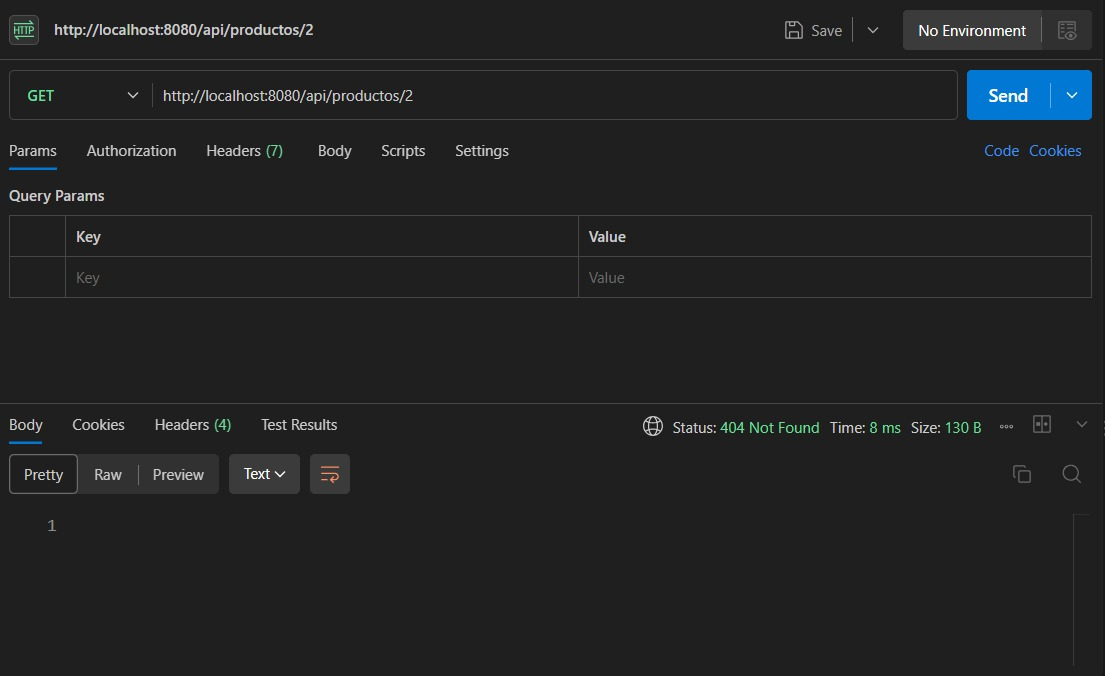
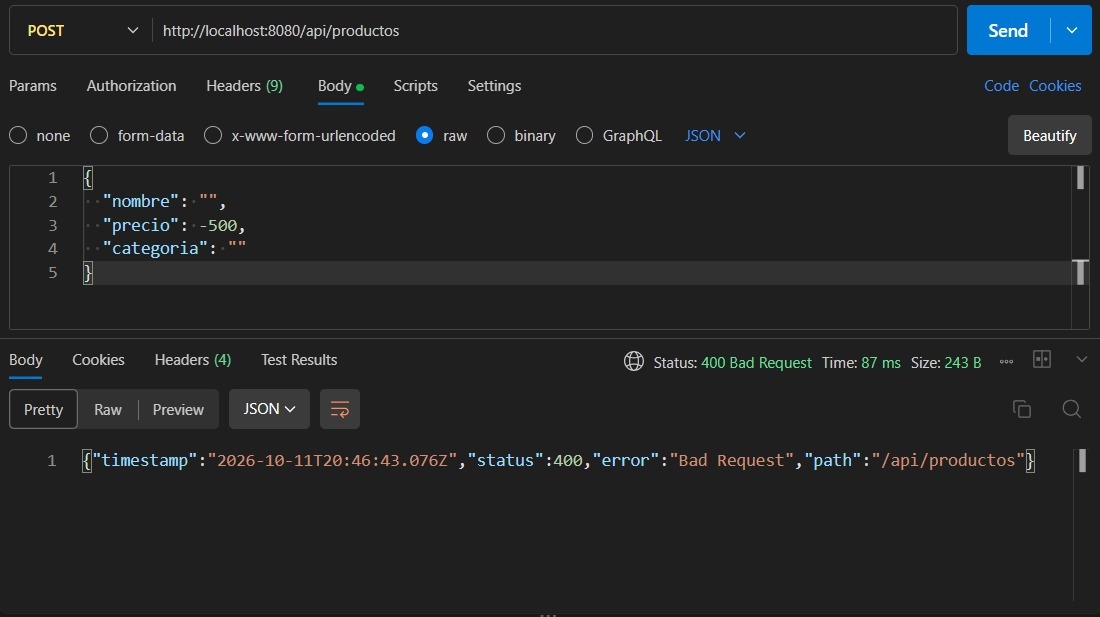
Fixing c2 practical exam errors

diff --git a/10-week/03-practical-exam-c2/producto-api/README.md b/10-week/03-practical-exam-c2/producto-api/README.md
@@ -102,7 +102,7 @@ The `id` attribute is identified as the primary key using:
 @Id
 ```
 
-and its value is automatically generated using:
+Its value is automatically generated using:
 
 ```java
 @GeneratedValue(strategy = GenerationType.IDENTITY)
@@ -144,7 +144,7 @@ The base URL is:
 
 URLs use nouns instead of actions, following REST conventions.
 
-## CRUD endpoints
+## CRUD Endpoints
 
 | HTTP Method | Endpoint | Operation | Status |
 |---|---|---|---|
@@ -160,7 +160,7 @@ URLs use nouns instead of actions, following REST conventions.
 
 ---
 
-## GET — List products
+## GET — List Products
 
 ```text
 GET /api/productos
@@ -202,7 +202,7 @@ If the product does not exist:
 
 ---
 
-## POST — Create product
+## POST — Create Product
 
 ```text
 POST /api/productos
@@ -237,7 +237,7 @@ Example response:
 
 ---
 
-## PUT — Update product
+## PUT — Update Product
 
 ```text
 PUT /api/productos/{id}
@@ -265,7 +265,7 @@ If the product exists:
 200 OK
 ```
 
-If it does not exist:
+If the product does not exist:
 
 ```text
 404 Not Found
@@ -273,7 +273,7 @@ If it does not exist:
 
 ---
 
-## DELETE — Delete product
+## DELETE — Delete Product
 
 ```text
 DELETE /api/productos/{id}
@@ -291,7 +291,7 @@ If the product exists:
 204 No Content
 ```
 
-If it does not exist:
+If the product does not exist:
 
 ```text
 404 Not Found
@@ -299,7 +299,7 @@ If it does not exist:
 
 ---
 
-## English requirement
+## English Requirement
 
 The controller receives HTTP requests and returns the appropriate HTTP responses to the client. The service contains the application logic and coordinates the operations between the controller and the data layer. The repository provides access to the database using Spring Data JPA.
 
@@ -335,11 +335,17 @@ http://localhost:8080/v3/api-docs
 
 Swagger automatically detects the REST controller and documents the available endpoints.
 
-### Swagger evidence
+---
 
-![Swagger endpoints](evidencias/01-swagger-endpoints.png)
+## Swagger Evidence
 
-### POST — Swagger
+The following image shows the documented REST endpoints.
+
+![Swagger endpoints](evidences/01-swagger-endpoints.jpeg)
+
+---
+
+## POST Test with Swagger
 
 A product was created using:
 
@@ -353,7 +359,7 @@ Expected status:
 201 Created
 ```
 
-![Swagger POST](evidencias/02-swagger-post-201.png)
+![Swagger POST 201](evidences/02-swagger-post-201.jpeg)
 
 ---
 
@@ -361,7 +367,7 @@ Expected status:
 
 Postman was used to test the API endpoints and verify the HTTP status codes.
 
-## Test 1 — GET products
+## Test 1 — GET Products
 
 Request:
 
@@ -375,11 +381,11 @@ Expected result:
 200 OK
 ```
 
-![Postman GET](evidencias/03-postman-get-200.png)
+![Postman GET 200](evidences/03-postman-get-200.jpeg)
 
 ---
 
-## Test 2 — POST product
+## Test 2 — POST Product
 
 Request:
 
@@ -403,11 +409,11 @@ Expected result:
 201 Created
 ```
 
-![Postman POST](evidencias/04-postman-post-201.png)
+![Postman POST 201](evidences/04-postman-post-201.jpeg)
 
 ---
 
-## Test 3 — PUT product
+## Test 3 — PUT Product
 
 Request:
 
@@ -431,7 +437,7 @@ Expected result:
 200 OK
 ```
 
-![Postman PUT](evidencias/05-postman-put-200.png)
+![Postman PUT 200](evidences/05-postman-put-200.jpeg)
 
 ---
 
@@ -449,13 +455,13 @@ Expected result:
 204 No Content
 ```
 
-![Postman DELETE](evidencias/06-postman-delete-204.png)
+![Postman DELETE 204](evidences/06-postman-delete-204.jpeg)
 
 ---
 
 # Error Cases
 
-## 404 — Product not found
+## Error Case 1 — 404 Not Found
 
 After deleting product with ID `2`, the following request was executed:
 
@@ -469,13 +475,21 @@ The API correctly returned:
 404 Not Found
 ```
 
-![Postman 404](evidencias/07-postman-error-404.png)
+![Postman 404](evidences/07-postman-error-404.jpeg)
 
 ---
 
-## 400 — Invalid product
+## Error Case 2 — 400 Bad Request
 
 Validation was also tested using invalid data.
+
+Request:
+
+```text
+POST http://localhost:8080/api/productos
+```
+
+JSON body:
 
 ```json
 {
@@ -499,22 +513,22 @@ because the entity uses validation annotations such as:
 @Positive
 ```
 
-![Postman 400](evidencias/08-postman-error-400.png)
+![Postman 400](evidences/08-postman-error-400.jpeg)
 
 ---
 
 # How to Run
 
-From the project directory:
-
-```bash
-./mvnw spring-boot:run
-```
-
-On Windows PowerShell:
+From the project directory on Windows PowerShell:
 
 ```powershell
 .\mvnw spring-boot:run
+```
+
+On macOS or Linux:
+
+```bash
+./mvnw spring-boot:run
 ```
 
 The API runs at:
@@ -534,29 +548,50 @@ http://localhost:8080/swagger-ui.html
 # Project Structure
 
 ```text
-src/main/java/com/fullstack/productoapi
+producto-api/
 │
-├── controller
-│   └── ProductoController.java
+├── src/
+│   └── main/
+│       ├── java/
+│       │   └── com/
+│       │       └── fullstack/
+│       │           └── productoapi/
+│       │               ├── controller/
+│       │               │   └── ProductoController.java
+│       │               ├── entity/
+│       │               │   └── Producto.java
+│       │               ├── repository/
+│       │               │   └── ProductoRepository.java
+│       │               ├── service/
+│       │               │   └── ProductoService.java
+│       │               └── ProductoApiApplication.java
+│       └── resources/
+│           └── application.properties
 │
-├── entity
-│   └── Producto.java
+├── evidences/
+│   ├── 01-swagger-endpoints.jpeg
+│   ├── 02-swagger-post-201.jpeg
+│   ├── 03-postman-get-200.jpeg
+│   ├── 04-postman-post-201.jpeg
+│   ├── 05-postman-put-200.jpeg
+│   ├── 06-postman-delete-204.jpeg
+│   ├── 07-postman-error-404.jpeg
+│   └── 08-postman-error-400.jpeg
 │
-├── repository
-│   └── ProductoRepository.java
-│
-├── service
-│   └── ProductoService.java
-│
-└── ProductoApiApplication.java
+├── pom.xml
+├── mvnw
+├── mvnw.cmd
+└── README.md
 ```
-
-The project separates responsibilities using Controller, Service and Repository layers.
 
 ---
 
 # Conclusion
 
-The project implements a complete REST CRUD API using Spring Boot and a layered architecture. Spring Data JPA provides persistence and object-relational mapping, while Swagger documents the endpoints and Postman verifies successful and error responses.
+The project implements a complete REST CRUD API using Spring Boot and a layered architecture.
 
-The implementation covers entity mapping, repository access, application logic, REST controllers, HTTP status codes, validation, API documentation and endpoint testing.
+Spring Data JPA provides persistence and object-relational mapping, while the service layer contains the application logic and the controller exposes the REST endpoints.
+
+Swagger is used to document the API and Postman is used to verify successful responses and error cases.
+
+The implementation covers entity mapping, repository access, application logic, CRUD operations, HTTP status codes, validation, API documentation and endpoint testing.
